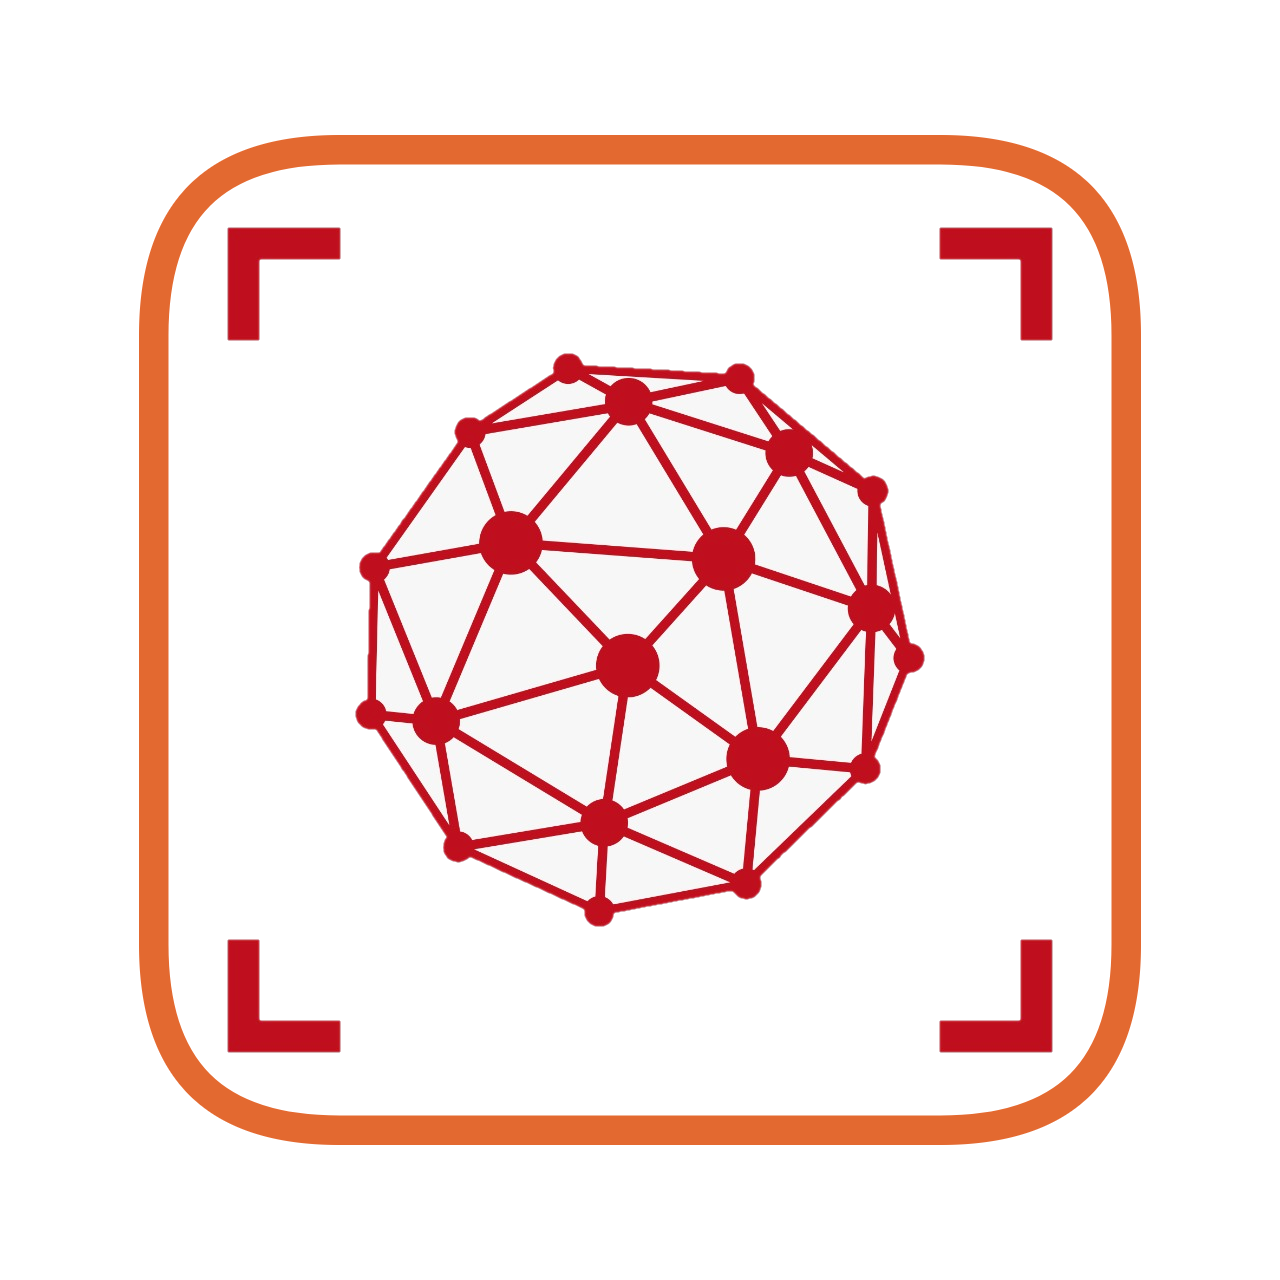
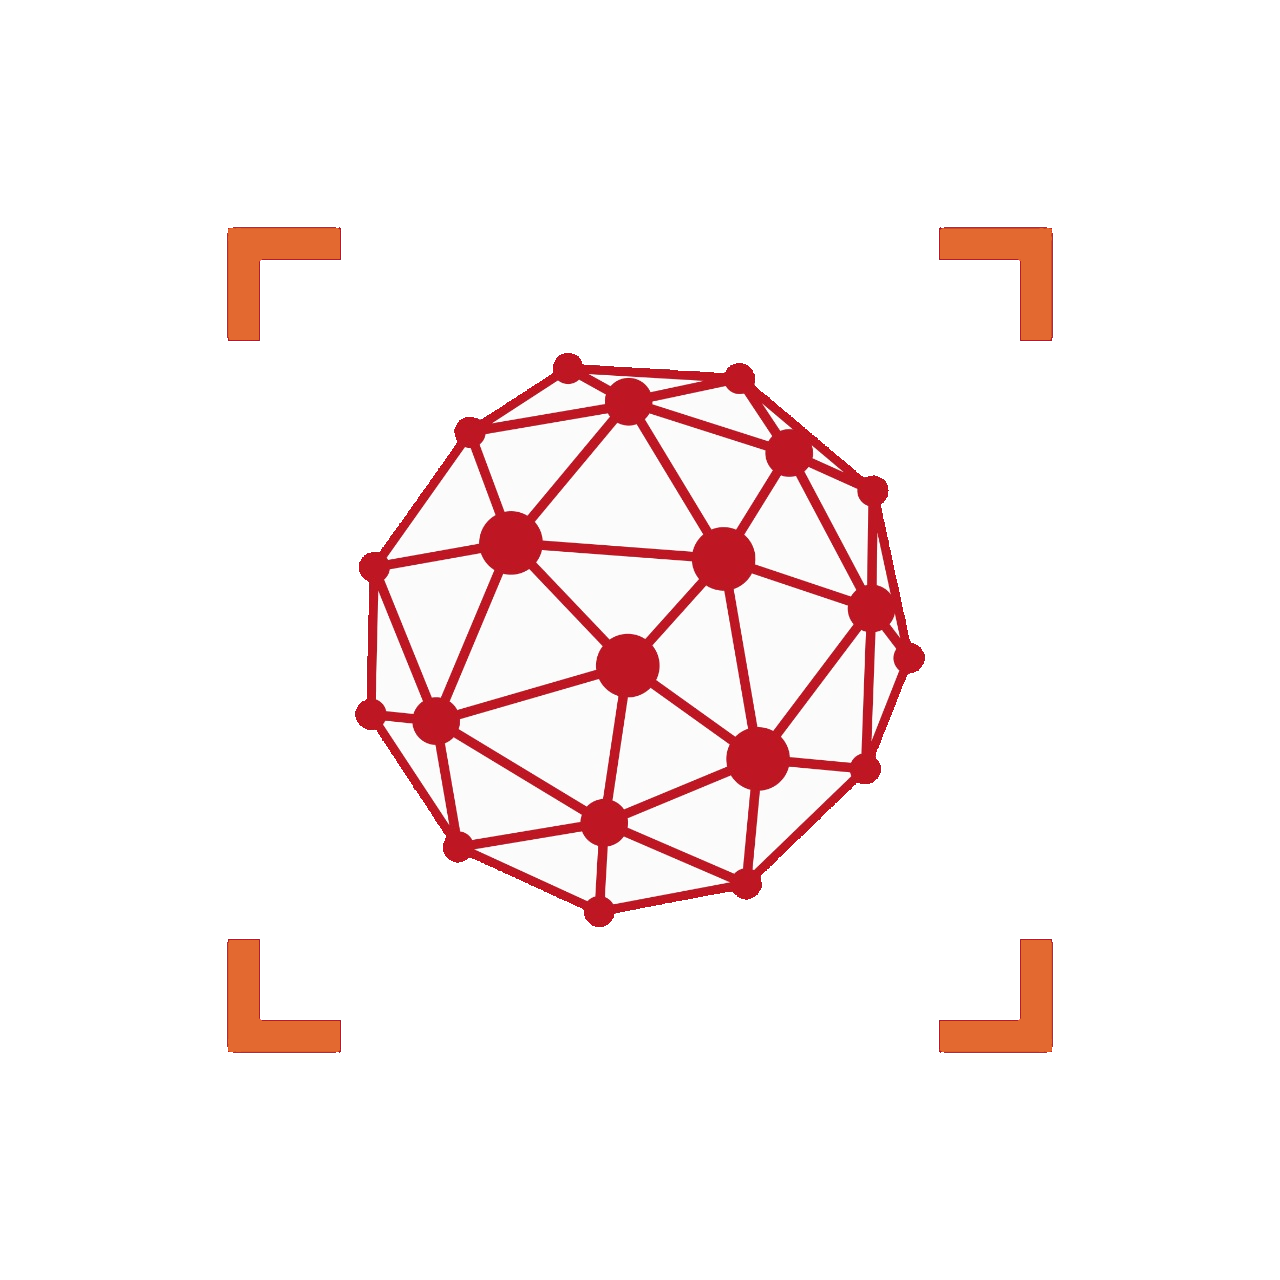
new images

Changed region(s): [[0.0938, 0.0938, 0.9062, 0.9062]]

diff --git a/index.html b/index.html
@@ -56,7 +56,7 @@
               <div class="col">
                 <div id="conacyt-div">
                   R&D+I Consortia<br/>
-                  <img src="img/icon_consortiumn.png" class="topic-icon">
+                  <img src="img/icon_consortiumn2.png" class="topic-icon">
                 </div>
               </div>
             </div>
